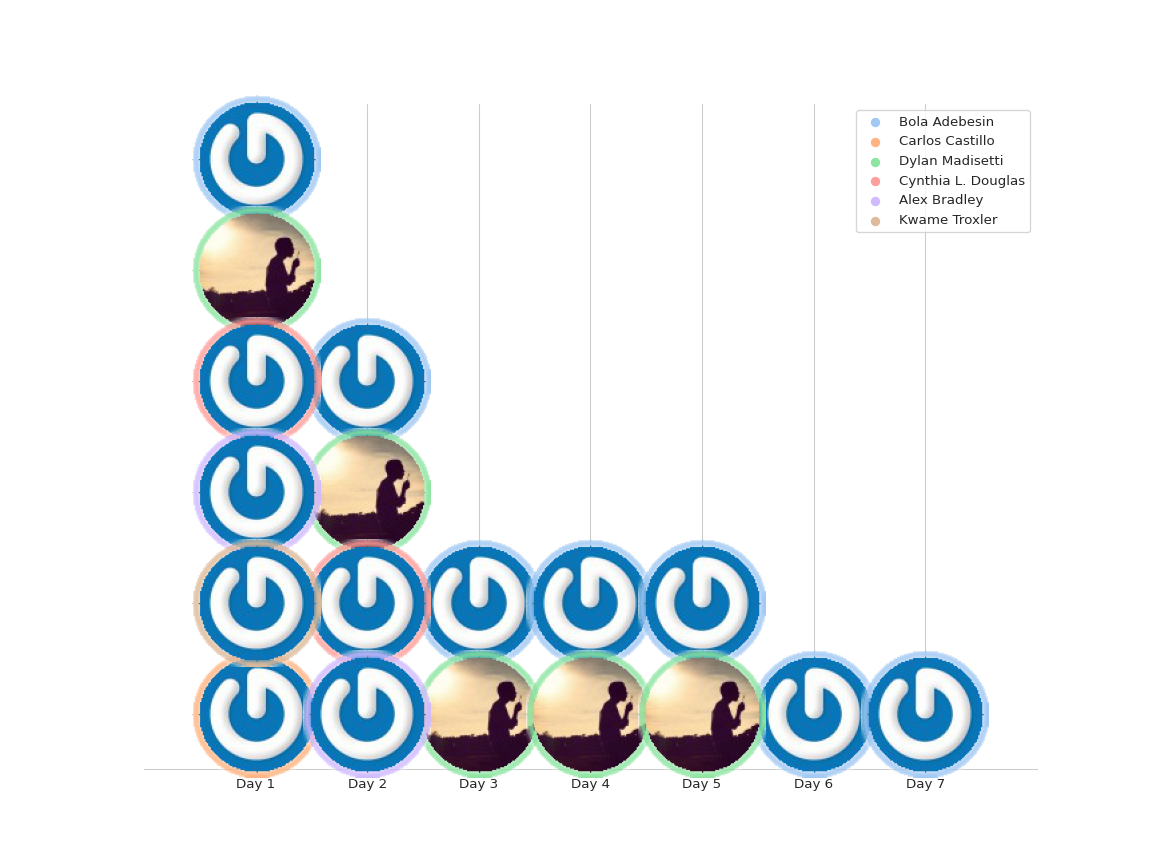
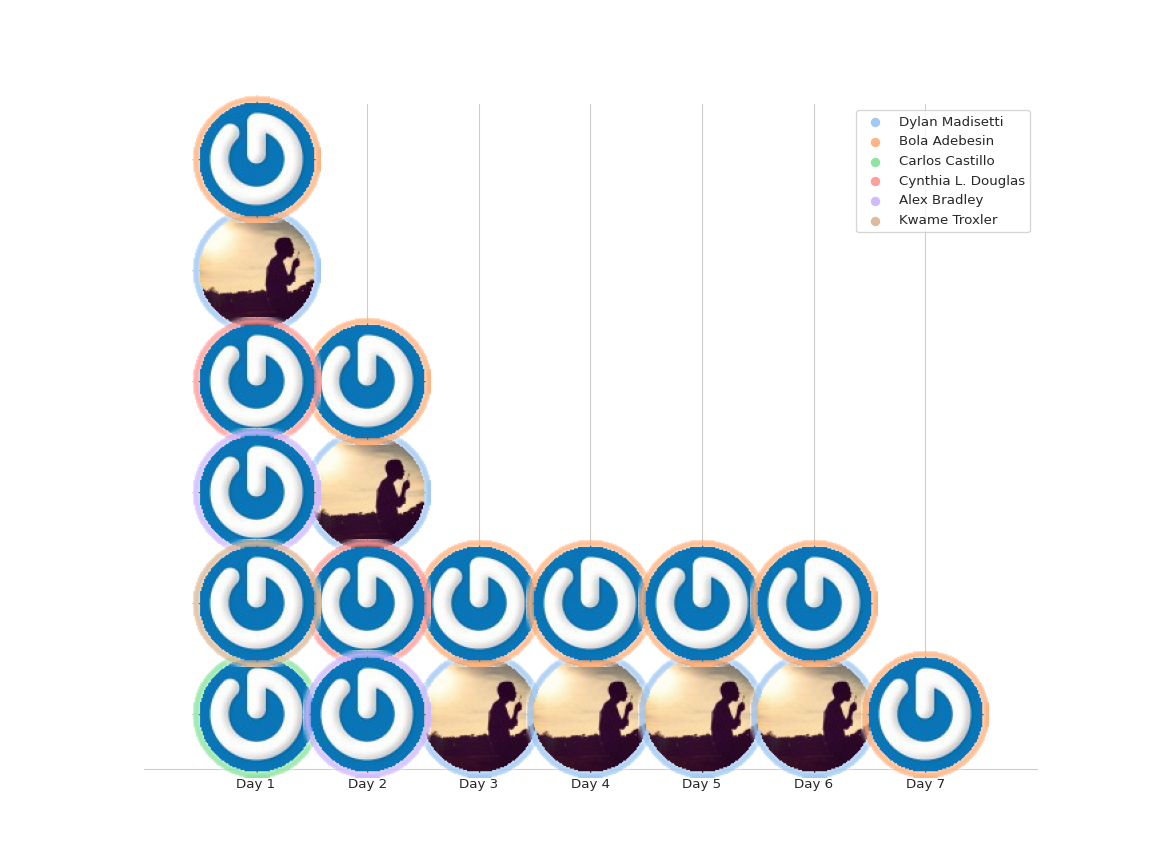
Deploying to gh-pages from @ baltimoreblacktechies/100daysOfCode-2021@63b5d8409d671850c75acc9038c4d0e2ea1012cf 🚀

diff --git a/Dylan/index.html b/Dylan/index.html
@@ -390,6 +390,13 @@
   
 </li>
       
+        <li class="md-nav__item">
+  <a href="#day-6" class="md-nav__link">
+    Day 6
+  </a>
+  
+</li>
+      
     </ul>
   
 </nav>
@@ -482,6 +489,13 @@
   
 </li>
       
+        <li class="md-nav__item">
+  <a href="#day-6" class="md-nav__link">
+    Day 6
+  </a>
+  
+</li>
+      
     </ul>
   
 </nav>
@@ -522,6 +536,10 @@ FMM + means of numerically calculating Cauchy integrals incase I want to go
 down the numerical FMM route (with Laurent series) for the equations I've
 been wrestling with. Also fixed a bug or two with the BBT 100 Days of code
 CI.</p>
+<h2 id="day-6">Day 6</h2>
+<p>I went viral !</p>
+<p>Made a nice d3 vis in observablehq.com of the parachute of the <a href="https://observablehq.com/@dmadisetti/perseverance-parachute">perseverance rover</a>
+Spliced together some footage of the actual parachute + <a href="https://reddit.com/r/dataisbeautiful/comments/lqgset/oc_decoding_the_stars_visualizing_the_message_in/">posted to reddit</a></p>
                 
               
               
